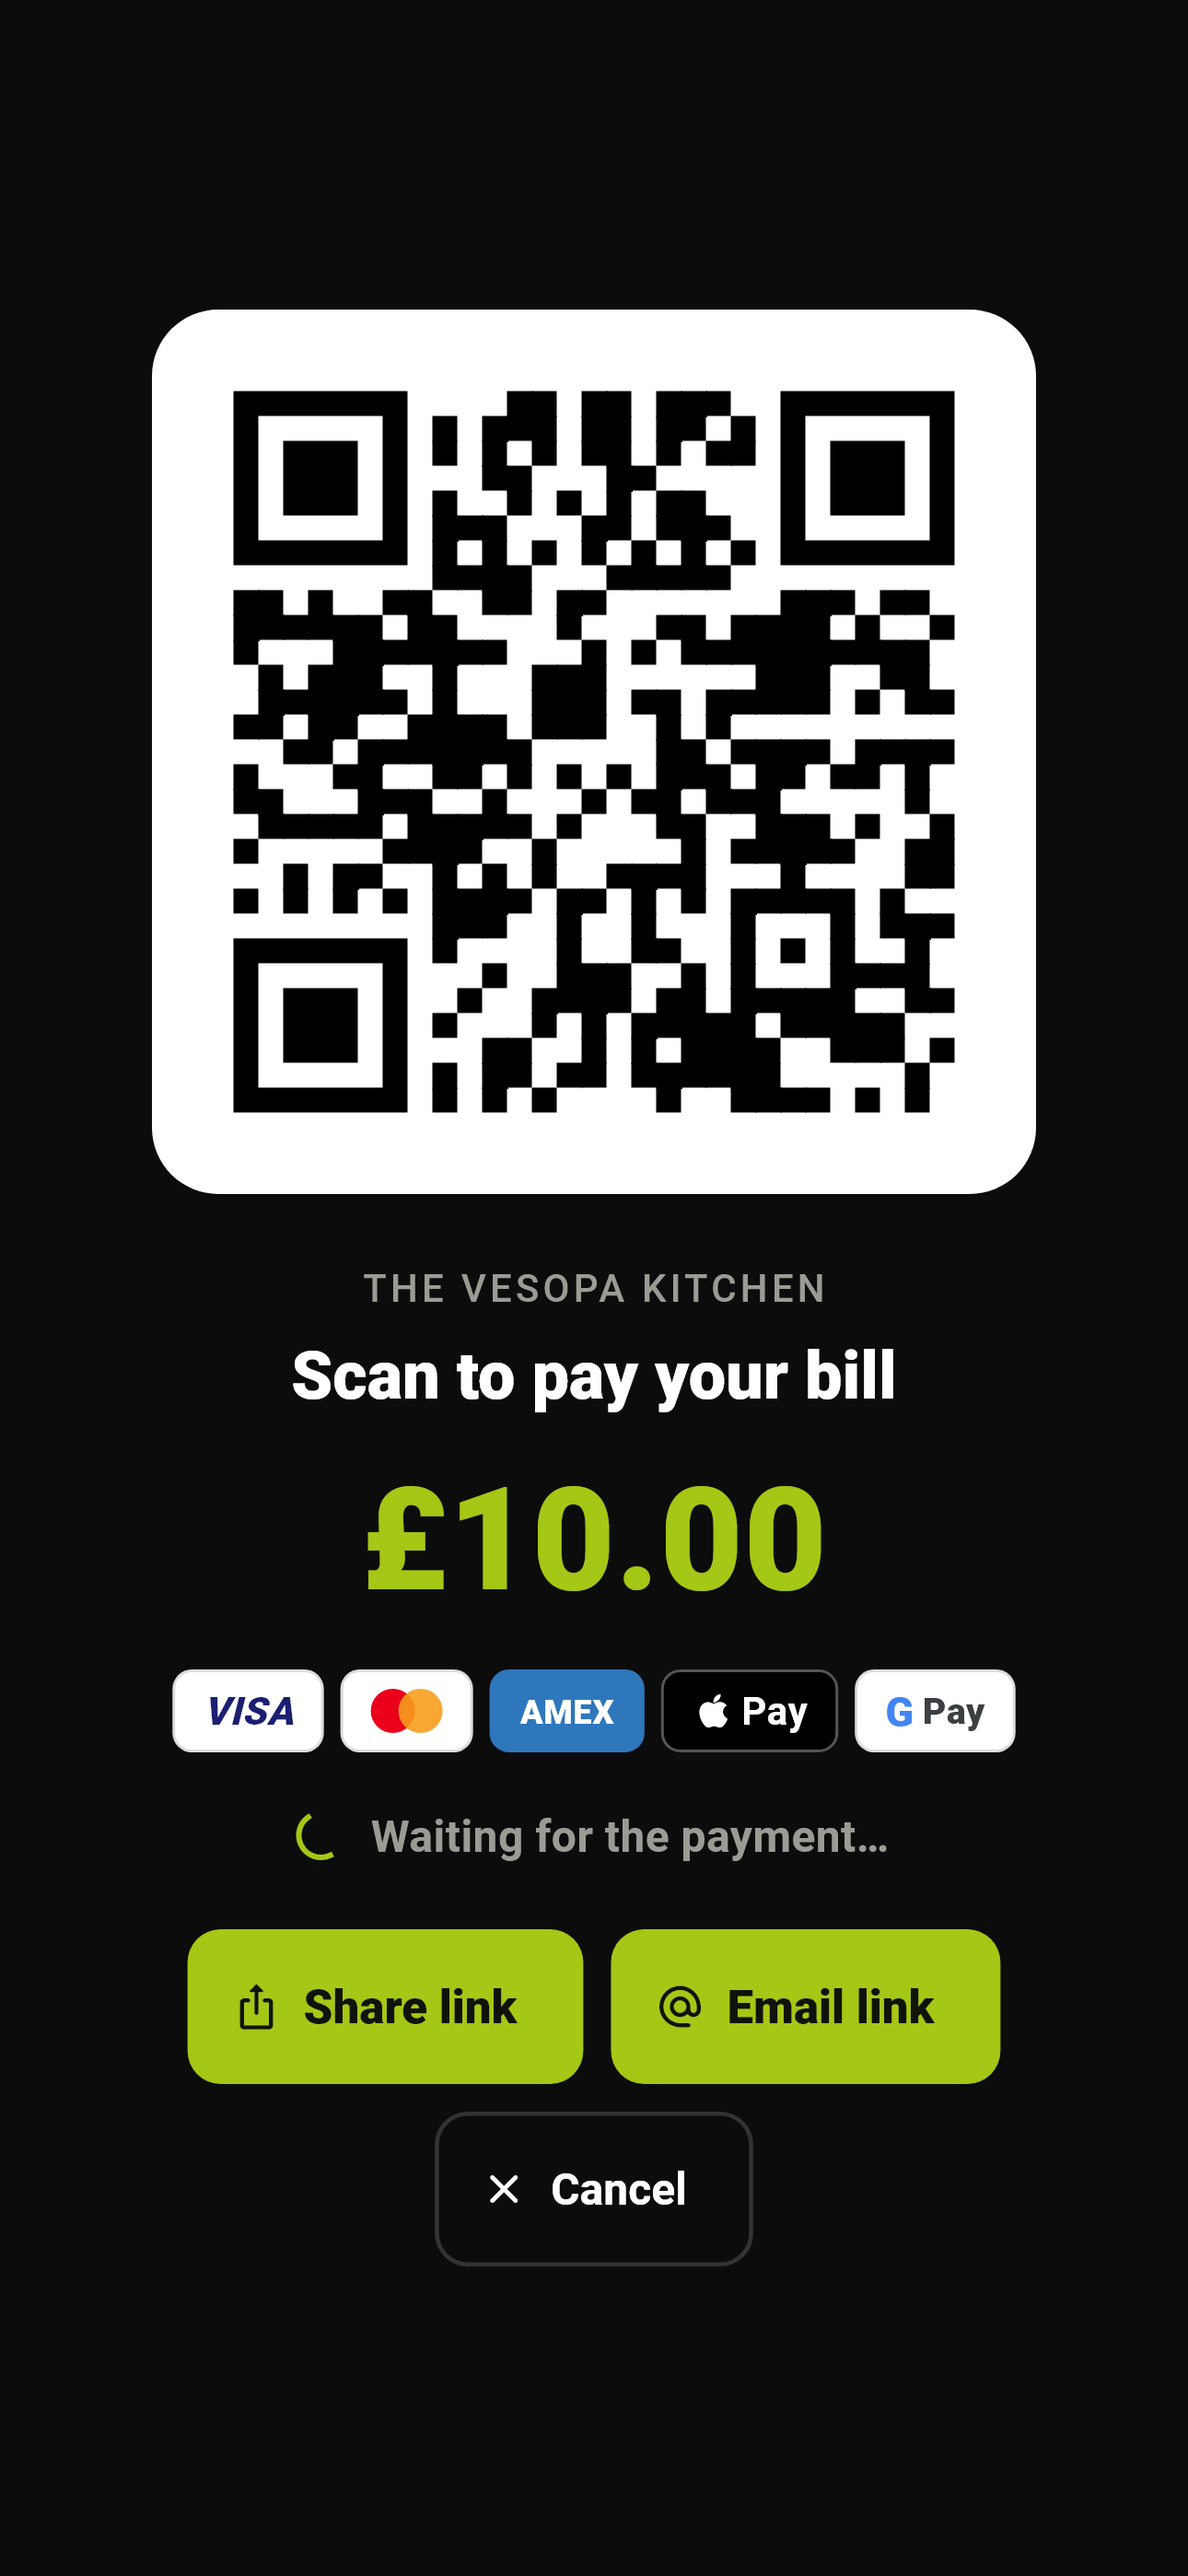
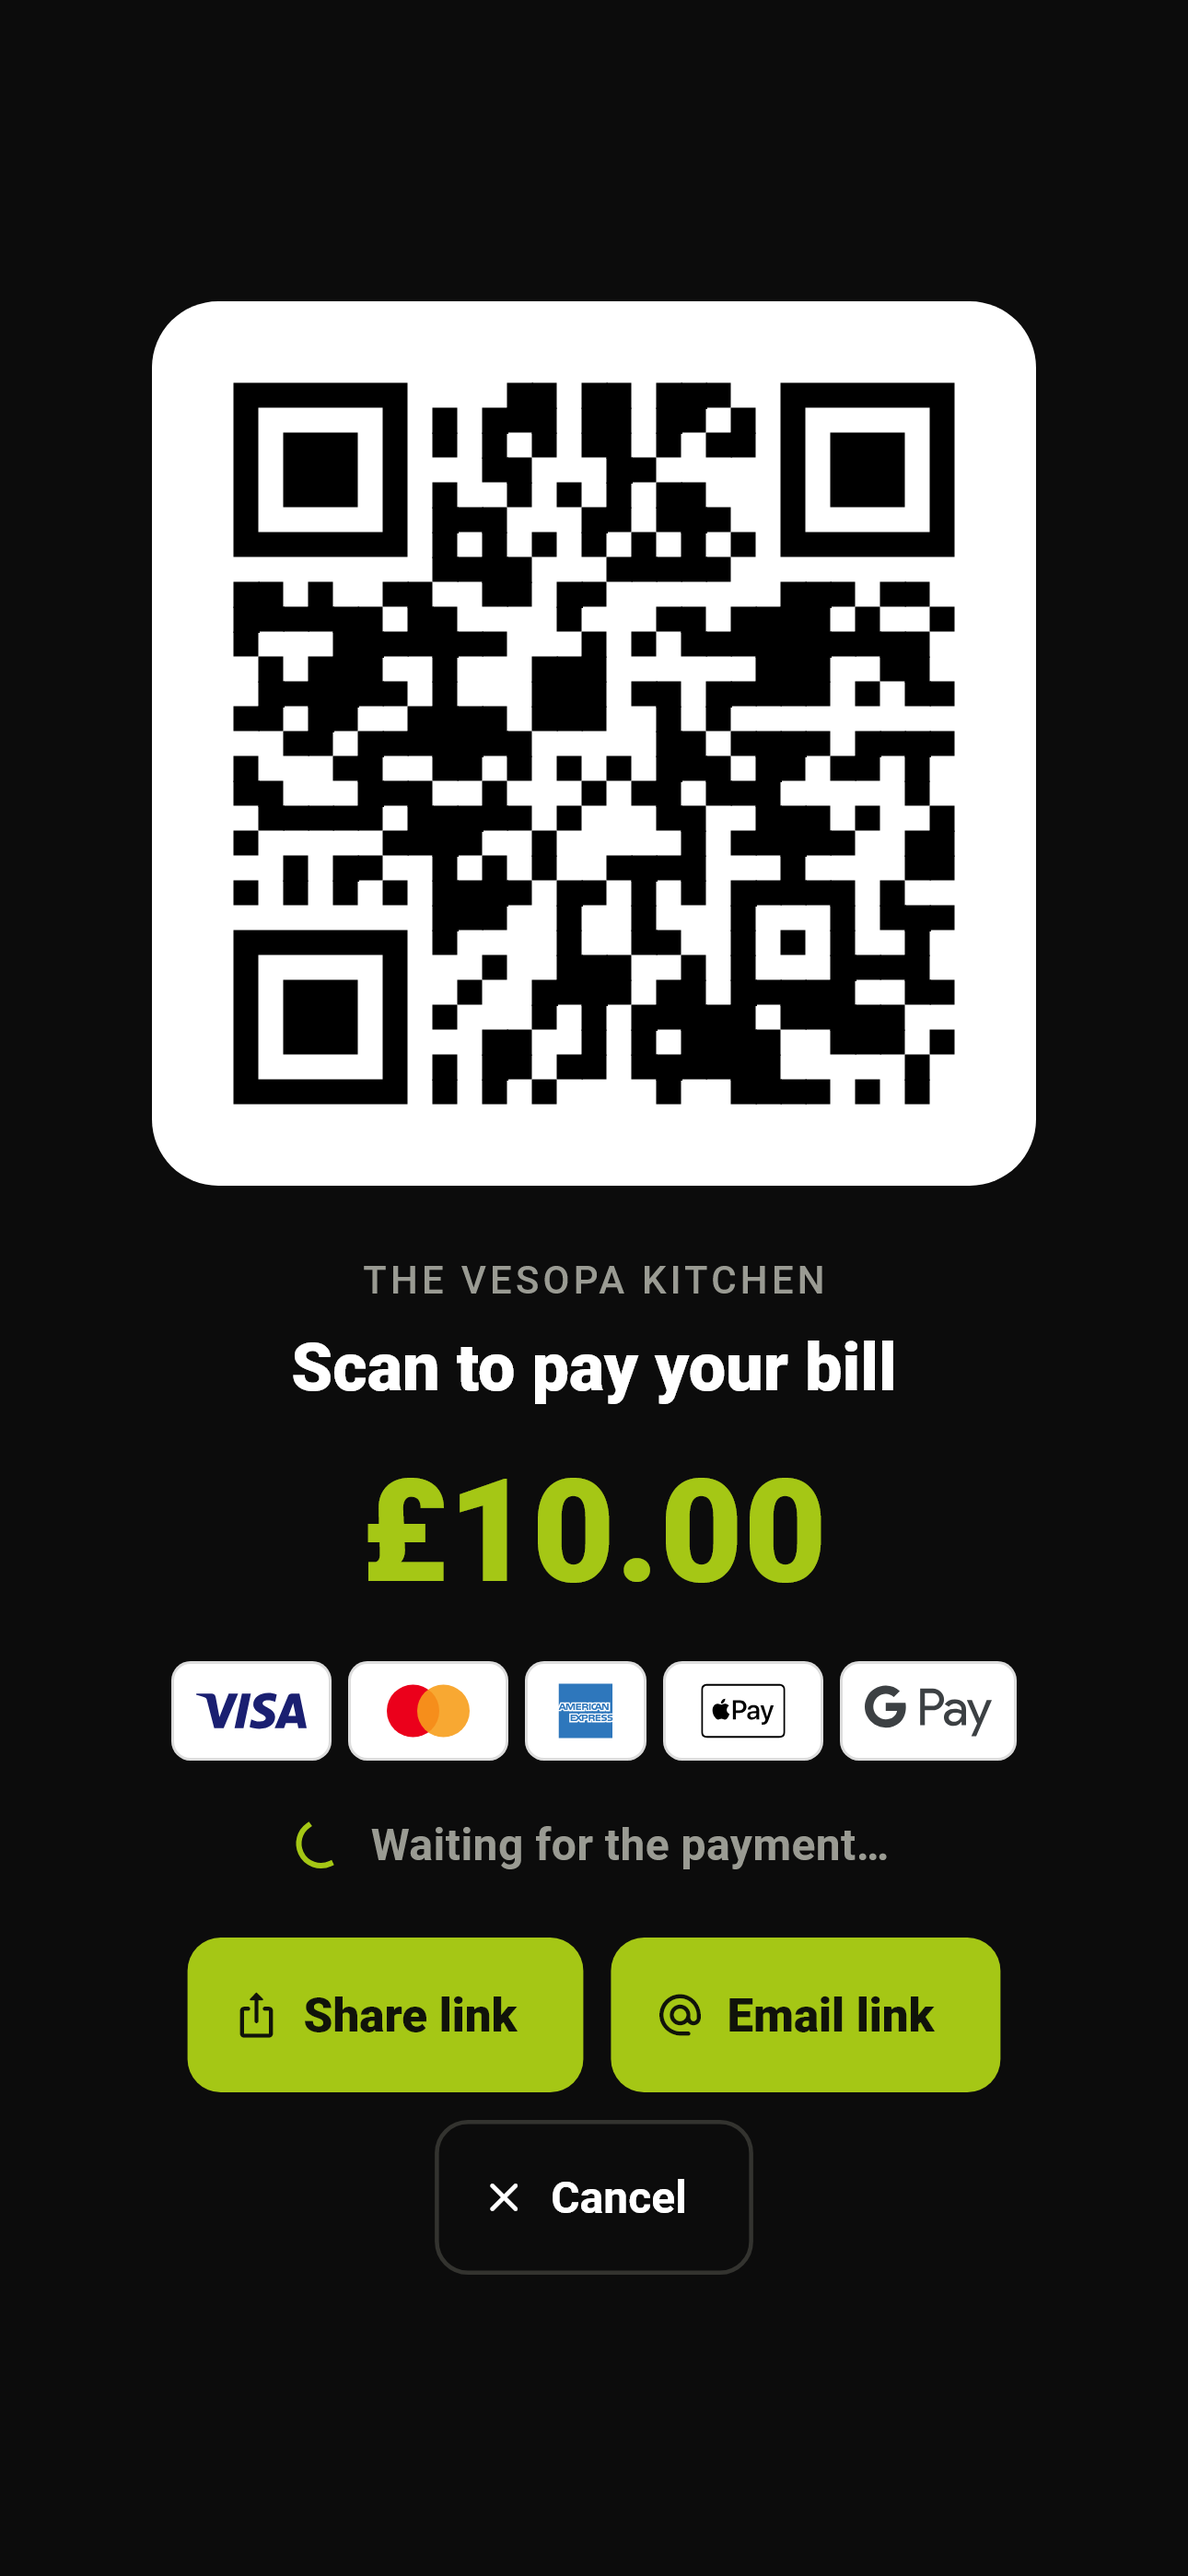
QR Pay: the real Visa, Mastercard, Amex, Apple Pay and Google Pay marks
On Go's QR Pay screen and on the customer's pay page, each mark on a white
card as a checkout shows them (Simple Icons, CC0; Mastercard as its two
circles). Store pictures retaken.

Changed region(s): [[0.124, 0.0933, 0.8682, 0.8712], [0.3721, 0.8712, 0.4031, 0.9024]]

diff --git a/vesopa_server/src/qr_pay.js b/vesopa_server/src/qr_pay.js
@@ -332,9 +332,9 @@ function qrPayRoutes({ pool, broadcast, secret, fetchImpl }) {
     return row || null;
   }
 
-  const BADGES = `<div class="badges">
-    <span class="b visa">VISA</span><span class="b mc"><i></i><i></i></span><span class="b amex">AMEX</span>
-    <span class="b apple">&#63743; Pay</span><span class="b gpay"><b>G</b> Pay</span></div>`;
+  // The schemes' and wallets' own marks (Simple Icons, CC0), each on a white
+  // card as a checkout shows them; Mastercard as its two circles.
+  const BADGES = `<div class="badges"><span class="b" title="Visa"><svg class="m" xmlns="http://www.w3.org/2000/svg" viewBox="0 7.92 24 8.16"><path fill="#1A1F71" d="M9.112 8.262L5.97 15.758H3.92L2.374 9.775c-.094-.368-.175-.503-.461-.658C1.447 8.864.677 8.627 0 8.479l.046-.217h3.3a.904.904 0 01.894.764l.817 4.338 2.018-5.102zm8.033 5.049c.008-1.979-2.736-2.088-2.717-2.972.006-.269.262-.555.822-.628a3.66 3.66 0 011.913.336l.34-1.59a5.207 5.207 0 00-1.814-.333c-1.917 0-3.266 1.02-3.278 2.479-.012 1.079.963 1.68 1.698 2.04.756.367 1.01.603 1.006.931-.005.504-.602.725-1.16.734-.975.015-1.54-.263-1.992-.473l-.351 1.642c.453.208 1.289.39 2.156.398 2.037 0 3.37-1.006 3.377-2.564m5.061 2.447H24l-1.565-7.496h-1.656a.883.883 0 00-.826.55l-2.909 6.946h2.036l.405-1.12h2.488zm-2.163-2.656l1.02-2.815.588 2.815zm-8.16-4.84l-1.603 7.496H8.34l1.605-7.496z"/></svg></span><span class="b mc" title="Mastercard"><i></i><i></i></span><span class="b" title="American Express"><svg class="m" xmlns="http://www.w3.org/2000/svg" viewBox="0 -0.2 24 24.4"><path fill="#2E77BC" d="M16.015 14.378c0-.32-.135-.496-.344-.622-.21-.12-.464-.135-.81-.135h-1.543v2.82h.675v-1.027h.72c.24 0 .39.024.478.125.12.13.104.38.104.55v.35h.66v-.555c-.002-.25-.017-.376-.108-.516-.06-.08-.18-.18-.33-.234l.02-.008c.18-.072.48-.297.48-.747zm-.87.407l-.028-.002c-.09.053-.195.058-.33.058h-.81v-.63h.824c.12 0 .24 0 .33.05.098.048.156.147.15.255 0 .12-.045.215-.134.27zM20.297 15.837H19v.6h1.304c.676 0 1.05-.278 1.05-.884 0-.28-.066-.448-.187-.582-.153-.133-.392-.193-.73-.207l-.376-.015c-.104 0-.18 0-.255-.03-.09-.03-.15-.105-.15-.21 0-.09.017-.166.09-.21.083-.046.177-.066.272-.06h1.23v-.602h-1.35c-.704 0-.958.437-.958.84 0 .9.776.855 1.407.87.104 0 .18.015.225.06.046.03.082.106.082.18 0 .077-.035.15-.08.18-.06.053-.15.07-.277.07zM0 0v10.096L.81 8.22h1.75l.225.464V8.22h2.043l.45 1.02.437-1.013h6.502c.295 0 .56.057.756.236v-.23h1.787v.23c.307-.17.686-.23 1.12-.23h2.606l.24.466v-.466h1.918l.254.465v-.466h1.858v3.948H20.87l-.36-.6v.585h-2.353l-.256-.63h-.583l-.27.614h-1.213c-.48 0-.84-.104-1.08-.24v.24h-2.89v-.884c0-.12-.03-.12-.105-.135h-.105v1.036H6.067v-.48l-.21.48H4.69l-.202-.48v.465H2.235l-.256-.624H1.4l-.256.624H0V24h23.786v-7.108c-.27.135-.613.18-.973.18H21.09v-.255c-.21.165-.57.255-.914.255H14.71v-.9c0-.12-.018-.12-.12-.12h-.075v1.022h-1.8v-1.066c-.298.136-.643.15-.928.136h-.214v.915h-2.18l-.54-.617-.57.6H4.742v-3.93h3.61l.518.602.554-.6h2.412c.28 0 .74.03.942.225v-.24h2.177c.202 0 .644.045.903.225v-.24h3.265v.24c.163-.164.508-.24.803-.24h1.89v.24c.194-.15.464-.24.84-.24h1.176V0H0zM21.156 14.955c.004.005.006.012.01.016.01.01.024.01.032.02l-.042-.035zM23.828 13.082h.065v.555h-.065zM23.865 15.03v-.005c-.03-.025-.046-.048-.075-.07-.15-.153-.39-.215-.764-.225l-.36-.012c-.12 0-.194-.007-.27-.03-.09-.03-.15-.105-.15-.21 0-.09.03-.16.09-.204.076-.045.15-.05.27-.05h1.223v-.588h-1.283c-.69 0-.96.437-.96.84 0 .9.78.855 1.41.87.104 0 .18.015.224.06.046.03.076.106.076.18 0 .07-.034.138-.09.18-.045.056-.136.07-.27.07h-1.288v.605h1.287c.42 0 .734-.118.9-.36h.03c.09-.134.135-.3.135-.523 0-.24-.045-.39-.135-.526zM18.597 14.208v-.583h-2.235V16.458h2.235v-.585h-1.57v-.57h1.533v-.584h-1.532v-.51M13.51 8.787h.685V11.6h-.684zM13.126 9.543l-.007.006c0-.314-.13-.5-.34-.624-.217-.125-.47-.135-.81-.135H10.43v2.82h.674v-1.034h.72c.24 0 .39.03.487.12.122.136.107.378.107.548v.354h.677v-.553c0-.25-.016-.375-.11-.516-.09-.107-.202-.19-.33-.237.172-.07.472-.3.472-.75zm-.855.396h-.015c-.09.054-.195.056-.33.056H11.1v-.623h.825c.12 0 .24.004.33.05.09.04.15.128.15.25s-.047.22-.134.266zM15.92 9.373h.632v-.6h-.644c-.464 0-.804.105-1.02.33-.286.3-.362.69-.362 1.11 0 .512.123.833.36 1.074.232.238.645.31.97.31h.78l.255-.627h1.39l.262.627h1.36v-2.11l1.272 2.11h.95l.002.002V8.786h-.684v1.963l-1.18-1.96h-1.02V11.4L18.11 8.744h-1.004l-.943 2.22h-.3c-.177 0-.362-.03-.468-.134-.125-.15-.186-.36-.186-.662 0-.285.08-.51.194-.63.133-.135.272-.165.516-.165zm1.668-.108l.464 1.118v.002h-.93l.466-1.12zM2.38 10.97l.254.628H4V9.393l.972 2.205h.584l.973-2.202.015 2.202h.69v-2.81H6.118l-.807 1.904-.876-1.905H3.343v2.663L2.205 8.787h-.997L.01 11.597h.72l.26-.626h1.39zm-.688-1.705l.46 1.118-.003.002h-.915l.457-1.12zM11.856 13.62H9.714l-.85.923-.825-.922H5.346v2.82H8l.855-.932.824.93h1.302v-.94h.838c.6 0 1.17-.164 1.17-.945l-.006-.003c0-.78-.598-.93-1.128-.93zM7.67 15.853l-.014-.002H6.02v-.557h1.47v-.574H6.02v-.51H7.7l.733.82-.764.824zm2.642.33l-1.03-1.147 1.03-1.108v2.253zm1.553-1.258h-.885v-.717h.885c.24 0 .42.098.42.344 0 .243-.15.372-.42.372zM9.967 9.373v-.586H7.73V11.6h2.237v-.58H8.4v-.564h1.527V9.88H8.4v-.507"/></svg></span><span class="b" title="Apple Pay"><svg class="m" xmlns="http://www.w3.org/2000/svg" viewBox="0 4.12 24 15.76"><path fill="#000000" d="M2.15 4.318a42.16 42.16 0 0 0-.454.003c-.15.005-.303.013-.452.04a1.44 1.44 0 0 0-1.06.772c-.07.138-.114.278-.14.43-.028.148-.037.3-.04.45A10.2 10.2 0 0 0 0 6.222v11.557c0 .07.002.138.003.207.004.15.013.303.04.452.027.15.072.291.142.429a1.436 1.436 0 0 0 .63.63c.138.07.278.115.43.142.148.027.3.036.45.04l.208.003h20.194l.207-.003c.15-.004.303-.013.452-.04.15-.027.291-.071.428-.141a1.432 1.432 0 0 0 .631-.631c.07-.138.115-.278.141-.43.027-.148.036-.3.04-.45.002-.07.003-.138.003-.208l.001-.246V6.221c0-.07-.002-.138-.004-.207a2.995 2.995 0 0 0-.04-.452 1.446 1.446 0 0 0-1.2-1.201 3.022 3.022 0 0 0-.452-.04 10.448 10.448 0 0 0-.453-.003zm0 .512h19.942c.066 0 .131.002.197.003.115.004.25.01.375.032.109.02.2.05.287.094a.927.927 0 0 1 .407.407.997.997 0 0 1 .094.288c.022.123.028.258.031.374.002.065.003.13.003.197v11.552c0 .065 0 .13-.003.196-.003.115-.009.25-.032.375a.927.927 0 0 1-.5.693 1.002 1.002 0 0 1-.286.094 2.598 2.598 0 0 1-.373.032l-.2.003H1.906c-.066 0-.133-.002-.196-.003a2.61 2.61 0 0 1-.375-.032c-.109-.02-.2-.05-.288-.094a.918.918 0 0 1-.406-.407 1.006 1.006 0 0 1-.094-.288 2.531 2.531 0 0 1-.032-.373 9.588 9.588 0 0 1-.002-.197V6.224c0-.065 0-.131.002-.197.004-.114.01-.248.032-.375.02-.108.05-.199.094-.287a.925.925 0 0 1 .407-.406 1.03 1.03 0 0 1 .287-.094c.125-.022.26-.029.375-.032.065-.002.131-.002.196-.003zm4.71 3.7c-.3.016-.668.199-.88.456-.191.22-.36.58-.316.918.338.03.675-.169.888-.418.205-.258.345-.603.308-.955zm2.207.42v5.493h.852v-1.877h1.18c1.078 0 1.835-.739 1.835-1.812 0-1.07-.742-1.805-1.808-1.805zm.852.719h.982c.739 0 1.161.396 1.161 1.089 0 .692-.422 1.092-1.164 1.092h-.979zm-3.154.3c-.45.01-.83.28-1.05.28-.235 0-.593-.264-.981-.257a1.446 1.446 0 0 0-1.23.747c-.527.908-.139 2.255.374 2.995.249.366.549.769.944.754.373-.014.52-.242.973-.242.454 0 .586.242.98.235.41-.007.667-.366.915-.733.286-.417.403-.82.41-.841-.007-.008-.79-.308-.797-1.209-.008-.754.615-1.113.644-1.135-.352-.52-.9-.578-1.09-.593a1.123 1.123 0 0 0-.092-.002zm8.204.397c-.99 0-1.606.533-1.652 1.256h.777c.072-.358.369-.586.845-.586.502 0 .803.266.803.711v.309l-1.097.064c-.951.054-1.488.484-1.488 1.184 0 .72.548 1.207 1.332 1.207.526 0 1.032-.281 1.264-.727h.019v.659h.788v-2.76c0-.803-.62-1.317-1.591-1.317zm1.94.072l1.446 4.009c0 .003-.073.24-.073.247-.125.41-.33.571-.711.571-.069 0-.206 0-.267-.015v.666c.06.011.267.019.335.019.83 0 1.226-.312 1.568-1.283l1.5-4.214h-.868l-1.012 3.259h-.015l-1.013-3.26zm-1.167 2.189v.316c0 .521-.45.917-1.024.917-.442 0-.731-.228-.731-.579 0-.342.278-.56.769-.593z"/></svg></span><span class="b wide" title="Google Pay"><svg class="m" xmlns="http://www.w3.org/2000/svg" viewBox="0 7.03 24 9.94"><path fill="#3C4043" d="M3.963 7.235A3.963 3.963 0 00.422 9.419a3.963 3.963 0 000 3.559 3.963 3.963 0 003.541 2.184c1.07 0 1.97-.352 2.627-.957.748-.69 1.18-1.71 1.18-2.916a4.722 4.722 0 00-.07-.806H3.964v1.526h2.14a1.835 1.835 0 01-.79 1.205c-.356.241-.814.379-1.35.379-1.034 0-1.911-.697-2.225-1.636a2.375 2.375 0 010-1.517c.314-.94 1.191-1.636 2.225-1.636a2.152 2.152 0 011.52.594l1.132-1.13a3.808 3.808 0 00-2.652-1.033zm6.501.55v6.9h.886V11.89h1.465c.603 0 1.11-.196 1.522-.588a1.911 1.911 0 00.635-1.464 1.92 1.92 0 00-.635-1.456 2.125 2.125 0 00-1.522-.598zm2.427.85a1.156 1.156 0 01.823.365 1.176 1.176 0 010 1.686 1.171 1.171 0 01-.877.357H11.35V8.635h1.487a1.156 1.156 0 01.054 0zm4.124 1.175c-.842 0-1.477.308-1.907.925l.781.491c.288-.417.68-.626 1.175-.626a1.255 1.255 0 01.856.323 1.009 1.009 0 01.366.785v.202c-.34-.193-.774-.289-1.3-.289-.617 0-1.11.145-1.479.434-.37.288-.554.677-.554 1.165a1.476 1.476 0 00.525 1.156c.35.308.785.463 1.305.463.61 0 1.098-.27 1.465-.81h.038v.655h.848v-2.909c0-.61-.19-1.09-.568-1.44-.38-.35-.896-.525-1.551-.525zm2.263.154l1.946 4.422-1.098 2.38h.915L24 9.963h-.965l-1.368 3.391h-.02l-1.406-3.39zm-2.146 2.368c.494 0 .88.11 1.156.33 0 .372-.147.696-.44.973a1.413 1.413 0 01-.997.414 1.081 1.081 0 01-.69-.232.708.708 0 01-.293-.578c0-.257.12-.47.363-.647.24-.173.54-.26.9-.26Z"/></svg></span></div>`;
 
   function page({ venue, title, body, refresh }) {
     return `<!doctype html><html lang="en"><head><meta charset="utf-8">
@@ -350,9 +350,8 @@ main{max-width:440px;margin:0 auto;padding:28px 16px}
 h1{font-size:22px;margin:0 0 4px}.amount{font-size:46px;font-weight:800;margin:14px 0 4px;font-variant-numeric:tabular-nums}
 .muted{color:var(--muted);font-size:14px}.pay{display:block;margin:22px 0 14px;padding:16px;border-radius:14px;background:var(--go);color:var(--goInk);font-weight:800;font-size:18px;text-decoration:none}
 .badges{display:flex;gap:6px;justify-content:center;flex-wrap:wrap;margin-top:6px}
-.b{display:inline-flex;align-items:center;gap:3px;height:26px;padding:0 9px;border-radius:6px;border:1px solid var(--line);font-size:12px;font-weight:800;background:#fff;color:#111}
-.visa{color:#1a1f71;font-style:italic}.amex{background:#2e77bc;color:#fff;border-color:#2e77bc}.apple{background:#000;color:#fff;border-color:#000}
-.gpay b{color:#4285f4}.mc i{display:inline-block;width:13px;height:13px;border-radius:50%;background:#eb001b}.mc i+i{background:#f79e1b;margin-left:-6px;opacity:.9}
+.b{display:inline-flex;align-items:center;justify-content:center;width:52px;height:34px;padding:6px 7px;border-radius:7px;border:1px solid #ddd;background:#fff}.b.wide{width:60px}.b .m{width:100%;height:100%}
+.mc i{display:inline-block;width:19px;height:19px;border-radius:50%;background:#eb001b}.mc i+i{background:#f79e1b;margin-left:-8px;opacity:.9}
 .tick{width:64px;height:64px;border-radius:50%;background:#2e9d4f;color:#fff;font-size:36px;line-height:64px;margin:4px auto 10px}
 .cross{background:#c0392b}.test{display:inline-block;margin-top:10px;padding:3px 10px;border-radius:99px;background:#fff3cd;color:#7a5b00;font-size:12px;font-weight:700}
 </style></head><body><main><div class="card"><p class="venue">${esc(venue)}</p>${body}</div>

diff --git a/vesopa_go/lib/counter/ui/qr_pay_page.dart b/vesopa_go/lib/counter/ui/qr_pay_page.dart
@@ -15,6 +15,7 @@ import 'dart:convert';
 import 'package:flutter/material.dart';
 import 'package:flutter/services.dart';
 import 'package:flutter_riverpod/flutter_riverpod.dart';
+import 'package:flutter_svg/flutter_svg.dart';
 import 'package:qr_flutter/qr_flutter.dart';
 import 'package:share_plus/share_plus.dart';
 import 'package:uuid/uuid.dart';
@@ -338,42 +339,37 @@ class _QrPayPageState extends ConsumerState<QrPayPage> {
   }
 }
 
-/// How the customer can pay: cards and the two wallets, drawn as marks.
+/// How the customer can pay: the card schemes' and the wallets' own marks
+/// (owner, 2026-11-02: "use real icons" for Apple Pay and Google Pay), each
+/// on a white card as they are shown at a checkout.
 class _PayMarks extends StatelessWidget {
   const _PayMarks();
 
   @override
   Widget build(BuildContext context) {
-    Widget chip(Widget child, {Color fill = Colors.white, Color line = const Color(0x22000000)}) => Container(
-          height: 30,
-          padding: const EdgeInsets.symmetric(horizontal: 10),
-          decoration: BoxDecoration(color: fill, borderRadius: BorderRadius.circular(7), border: Border.all(color: line)),
-          // As wide as the mark: an aligned Container in a Wrap takes the
-          // whole row, which stacked the marks on a phone.
-          child: Center(widthFactor: 1, child: child),
+    Widget chip(Widget child, {double width = 58}) => Container(
+          width: width,
+          height: 36,
+          padding: const EdgeInsets.symmetric(horizontal: 8, vertical: 7),
+          decoration: BoxDecoration(color: Colors.white, borderRadius: BorderRadius.circular(7), border: Border.all(color: const Color(0x22000000))),
+          child: child,
         );
-    const bold = TextStyle(fontWeight: FontWeight.w900, fontSize: 13, height: 1, color: Color(0xFF3C4043));
+    Widget mark(String name, {String? label}) => SvgPicture.asset('assets/marks/$name.svg', fit: BoxFit.contain, semanticsLabel: label);
     return Wrap(spacing: 6, runSpacing: 6, children: [
-      chip(const Text('VISA', style: TextStyle(fontWeight: FontWeight.w900, fontStyle: FontStyle.italic, fontSize: 14, color: Color(0xFF1A1F71)))),
-      chip(SizedBox(
-        width: 26,
-        height: 16,
-        child: Stack(children: [
-          Positioned(left: 0, child: Container(width: 16, height: 16, decoration: const BoxDecoration(color: Color(0xFFEB001B), shape: BoxShape.circle))),
-          Positioned(left: 10, child: Container(width: 16, height: 16, decoration: BoxDecoration(color: const Color(0xFFF79E1B).withValues(alpha: 0.9), shape: BoxShape.circle))),
-        ]),
+      chip(mark('visa', label: 'Visa')),
+      chip(Center(
+        child: SizedBox(
+          width: 30,
+          height: 19,
+          child: Stack(children: [
+            Positioned(left: 0, child: Container(width: 19, height: 19, decoration: const BoxDecoration(color: Color(0xFFEB001B), shape: BoxShape.circle))),
+            Positioned(left: 11, child: Container(width: 19, height: 19, decoration: BoxDecoration(color: const Color(0xFFF79E1B).withValues(alpha: 0.9), shape: BoxShape.circle))),
+          ]),
+        ),
       )),
-      chip(const Text('AMEX', style: TextStyle(fontWeight: FontWeight.w900, fontSize: 12, color: Colors.white)), fill: const Color(0xFF2E77BC), line: const Color(0xFF2E77BC)),
-      chip(const Row(mainAxisSize: MainAxisSize.min, children: [
-        Icon(Icons.apple, size: 16, color: Colors.white),
-        SizedBox(width: 2),
-        Text('Pay', style: TextStyle(fontWeight: FontWeight.w700, fontSize: 14, color: Colors.white, height: 1)),
-      ]), fill: Colors.black, line: const Color(0x55FFFFFF)),
-      chip(const Row(mainAxisSize: MainAxisSize.min, children: [
-        Text('G', style: TextStyle(fontWeight: FontWeight.w900, fontSize: 15, color: Color(0xFF4285F4), height: 1)),
-        SizedBox(width: 3),
-        Text('Pay', style: bold),
-      ])),
+      chip(mark('americanexpress', label: 'American Express'), width: 44),
+      chip(mark('applepay', label: 'Apple Pay')),
+      chip(mark('googlepay', label: 'Google Pay'), width: 64),
     ]);
   }
 }
